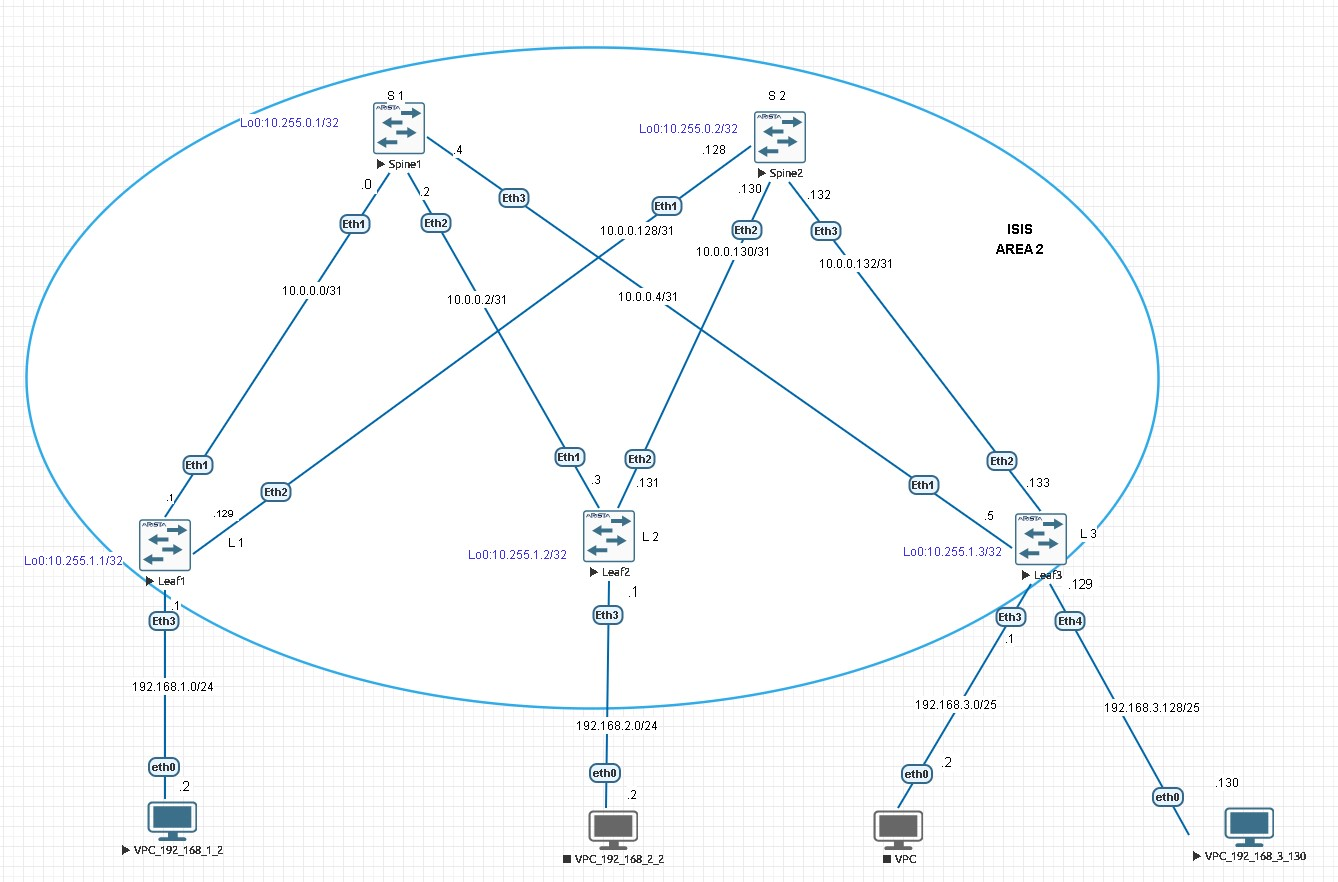
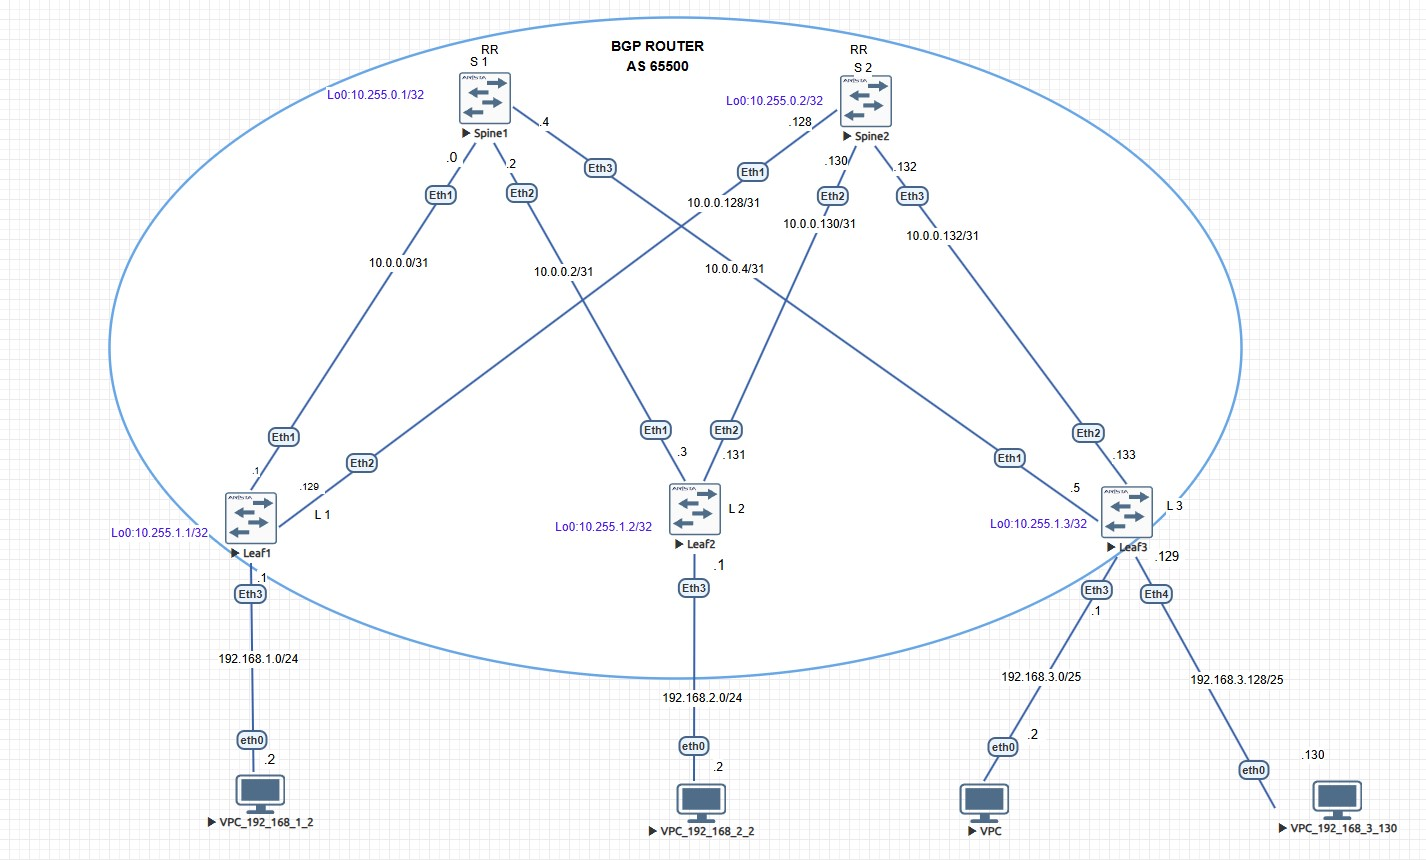
topology
topology_img

diff --git a/labs/lab04/README.md b/labs/lab04/README.md
@@ -1,18 +1,18 @@
-## Лабораторная работа №3 по теме: "Underlay. ISIS"
+## Лабораторная работа №4 по теме: "Underlay. BGP"
 ___
 ### Цель:
-Настроить ISIS для Underlay сети.
+Настроить BGP для Underlay сети.
 
 ### Задание:
-1. Настроите ISIS в Underlay сети, для IP связанности между всеми сетевыми устройствами.
+1. Настроите BGP в Underlay сети, для IP связанности между всеми сетевыми устройствами.
 2. Зафиксируете в документации - план работы, адресное пространство, схему сети, конфигурацию устройств
-3. Убедитесь в наличии IP связанности между устройствами в ISIS домене
+3. Убедитесь в наличии IP связанности между устройствами в BGP домене
 ___
 
 ## Выполнение:
 
 ## Схема сети
-![Picture background](https://github.com/pablogovorov/repo_lab_otus/blob/main/labs/lab03/mytopology.jpg)
+![Picture background](https://github.com/pablogovorov/repo_lab_otus/blob/main/labs/lab04/mytopology.jpg)
 
 
 ## Адресное пространство
@@ -66,19 +66,18 @@ system l1
    unsupported error-correction action error
 !
 interface Ethernet1
+   mtu 9194
    no switchport
    ip address 10.0.0.1/31
-   isis enable otus
 !
 interface Ethernet2
+   mtu 9194
    no switchport
    ip address 10.0.0.129/31
-   isis enable otus
 !
 interface Ethernet3
    no switchport
    ip address 192.168.1.1/24
-   isis enable otus
 !
 interface Ethernet4
 !
@@ -92,17 +91,21 @@ interface Ethernet8
 !
 interface Loopback0
    ip address 10.255.1.1/32
-   isis enable otus
 !
 interface Management1
 !
 ip routing
 !
-router isis otus
-   net 49.0001.0000.0000.0001.00
-   is-type level-2
-   !
-   address-family ipv4 unicast
+router bgp 65500
+   router-id 10.255.1.1
+   maximum-paths 2 ecmp 2
+   neighbor UNDERLAY peer group
+   neighbor UNDERLAY remote-as 65500
+   neighbor UNDERLAY bfd
+   neighbor 10.0.0.0 peer group UNDERLAY
+   neighbor 10.0.0.128 peer group UNDERLAY
+   network 10.255.1.1/32
+   network 192.168.1.0/24
 !
 router multicast
    ipv4
@@ -139,19 +142,16 @@ system l1
    unsupported error-correction action error
 !
 interface Ethernet1
+   mtu 9194
    no switchport
    ip address 10.0.0.3/31
-   isis enable otus
 !
 interface Ethernet2
+   mtu 9194
    no switchport
    ip address 10.0.0.131/31
-   isis enable otus
 !
 interface Ethernet3
-   no switchport
-   ip address 192.168.2.1/24
-   isis enable otus
 !
 interface Ethernet4
 !
@@ -165,17 +165,19 @@ interface Ethernet8
 !
 interface Loopback0
    ip address 10.255.1.2/32
-   isis enable otus
 !
 interface Management1
 !
 ip routing
 !
-router isis otus
-   net 49.0001.0000.0000.0002.00
-   is-type level-2
-   !
-   address-family ipv4 unicast
+router bgp 65500
+   router-id 10.255.1.2
+   neighbor UNDERLAY peer group
+   neighbor UNDERLAY remote-as 65500
+   neighbor UNDERLAY bfd
+   neighbor 10.0.0.2 peer group UNDERLAY
+   neighbor 10.0.0.130 peer group UNDERLAY
+   network 10.255.1.2/32
 !
 router multicast
    ipv4
@@ -212,24 +214,22 @@ system l1
    unsupported error-correction action error
 !
 interface Ethernet1
+   mtu 9194
    no switchport
    ip address 10.0.0.5/31
-   isis enable otus
 !
 interface Ethernet2
+   mtu 9194
    no switchport
    ip address 10.0.0.133/31
-   isis enable otus
 !
 interface Ethernet3
    no switchport
    ip address 192.168.3.1/25
-   isis enable otus
 !
 interface Ethernet4
    no switchport
    ip address 192.168.3.129/25
-   isis enable otus
 !
 interface Ethernet5
 !
@@ -241,17 +241,22 @@ interface Ethernet8
 !
 interface Loopback0
    ip address 10.255.1.3/32
-   isis enable otus
 !
 interface Management1
 !
 ip routing
 !
-router isis otus
-   net 49.0001.0000.0000.0003.00
-   is-type level-2
-   !
-   address-family ipv4 unicast
+router bgp 65500
+   router-id 10.255.1.3
+   neighbor UNDERLAY peer group
+   neighbor UNDERLAY bfd
+   neighbor UNDERPLAY peer group
+   neighbor UNDERPLAY remote-as 65500
+   neighbor UNDERPLAY bfd
+   neighbor 10.0.0.4 peer group UNDERPLAY
+   neighbor 10.0.0.132 peer group UNDERPLAY
+   network 10.255.1.3/32
+   network 192.168.3.128/25
 !
 router multicast
    ipv4
@@ -261,6 +266,7 @@ router multicast
       software-forwarding kernel
 !
 end
+
 
 
 ```
@@ -288,19 +294,19 @@ system l1
    unsupported error-correction action error
 !
 interface Ethernet1
+   mtu 9194
    no switchport
    ip address 10.0.0.0/31
-   isis enable otus
 !
 interface Ethernet2
+   mtu 9194
    no switchport
    ip address 10.0.0.2/31
-   isis enable otus
 !
 interface Ethernet3
+   mtu 9194
    no switchport
    ip address 10.0.0.4/31
-   isis enable otus
 !
 interface Ethernet4
 !
@@ -314,17 +320,22 @@ interface Ethernet8
 !
 interface Loopback0
    ip address 10.255.0.1/32
-   isis enable otus
 !
 interface Management1
 !
 ip routing
 !
-router isis otus
-   net 49.0001.0000.0000.0010.00
-   is-type level-2
-   !
-   address-family ipv4 unicast
+router bgp 65500
+   router-id 10.255.0.1
+   neighbor UNDERLAY peer group
+   neighbor UNDERLAY remote-as 65500
+   neighbor UNDERLAY next-hop-self
+   neighbor UNDERLAY bfd
+   neighbor UNDERLAY route-reflector-client
+   neighbor 10.0.0.1 peer group UNDERLAY
+   neighbor 10.0.0.3 peer group UNDERLAY
+   neighbor 10.0.0.5 peer group UNDERLAY
+   network 10.255.0.1/32
 !
 router multicast
    ipv4
@@ -334,6 +345,7 @@ router multicast
       software-forwarding kernel
 !
 end
+
 
 ```
 </details>
@@ -360,19 +372,19 @@ system l1
    unsupported error-correction action error
 !
 interface Ethernet1
+   mtu 9194
    no switchport
    ip address 10.0.0.128/31
-   isis enable otus
 !
 interface Ethernet2
+   mtu 9194
    no switchport
    ip address 10.0.0.130/31
-   isis enable otus
 !
 interface Ethernet3
+   mtu 9194
    no switchport
    ip address 10.0.0.132/31
-   isis enable otus
 !
 interface Ethernet4
 !
@@ -386,17 +398,22 @@ interface Ethernet8
 !
 interface Loopback0
    ip address 10.255.0.2/32
-   isis enable otus
 !
 interface Management1
 !
 ip routing
 !
-router isis otus
-   net 49.0001.0000.0000.0020.00
-   is-type level-2
-   !
-   address-family ipv4 unicast
+router bgp 65500
+   router-id 10.255.0.2
+   neighbor UNDERLAY peer group
+   neighbor UNDERLAY remote-as 65500
+   neighbor UNDERLAY next-hop-self
+   neighbor UNDERLAY bfd
+   neighbor UNDERLAY route-reflector-client
+   neighbor 10.0.0.129 peer group UNDERLAY
+   neighbor 10.0.0.131 peer group UNDERLAY
+   neighbor 10.0.0.133 peer group UNDERLAY
+   network 10.255.0.2/32
 !
 router multicast
    ipv4
@@ -406,6 +423,7 @@ router multicast
       software-forwarding kernel
 !
 end
+
 
 
 ```
